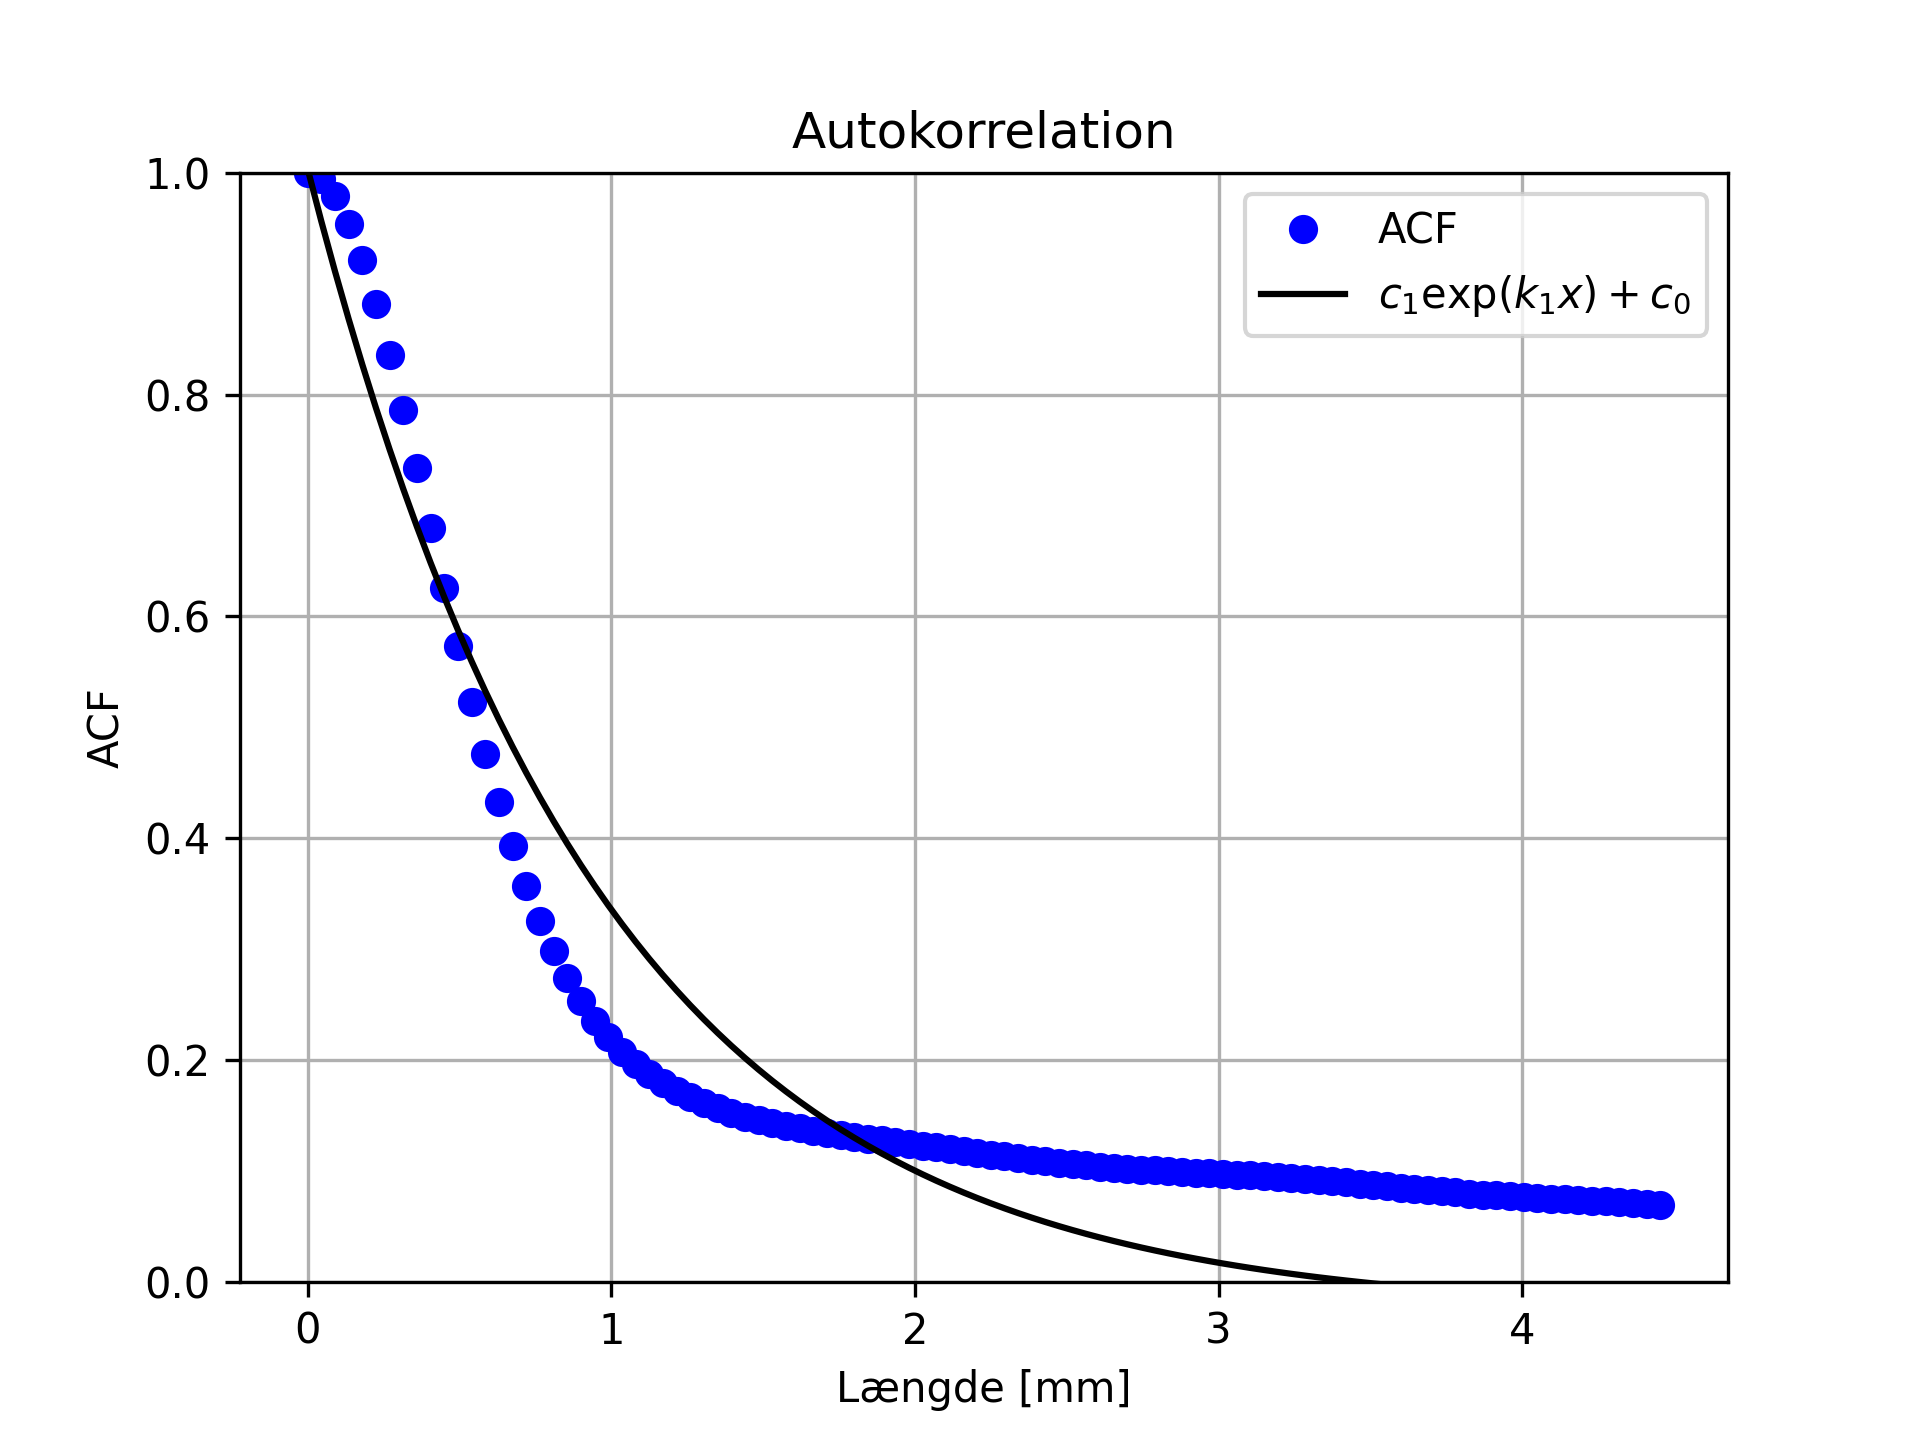
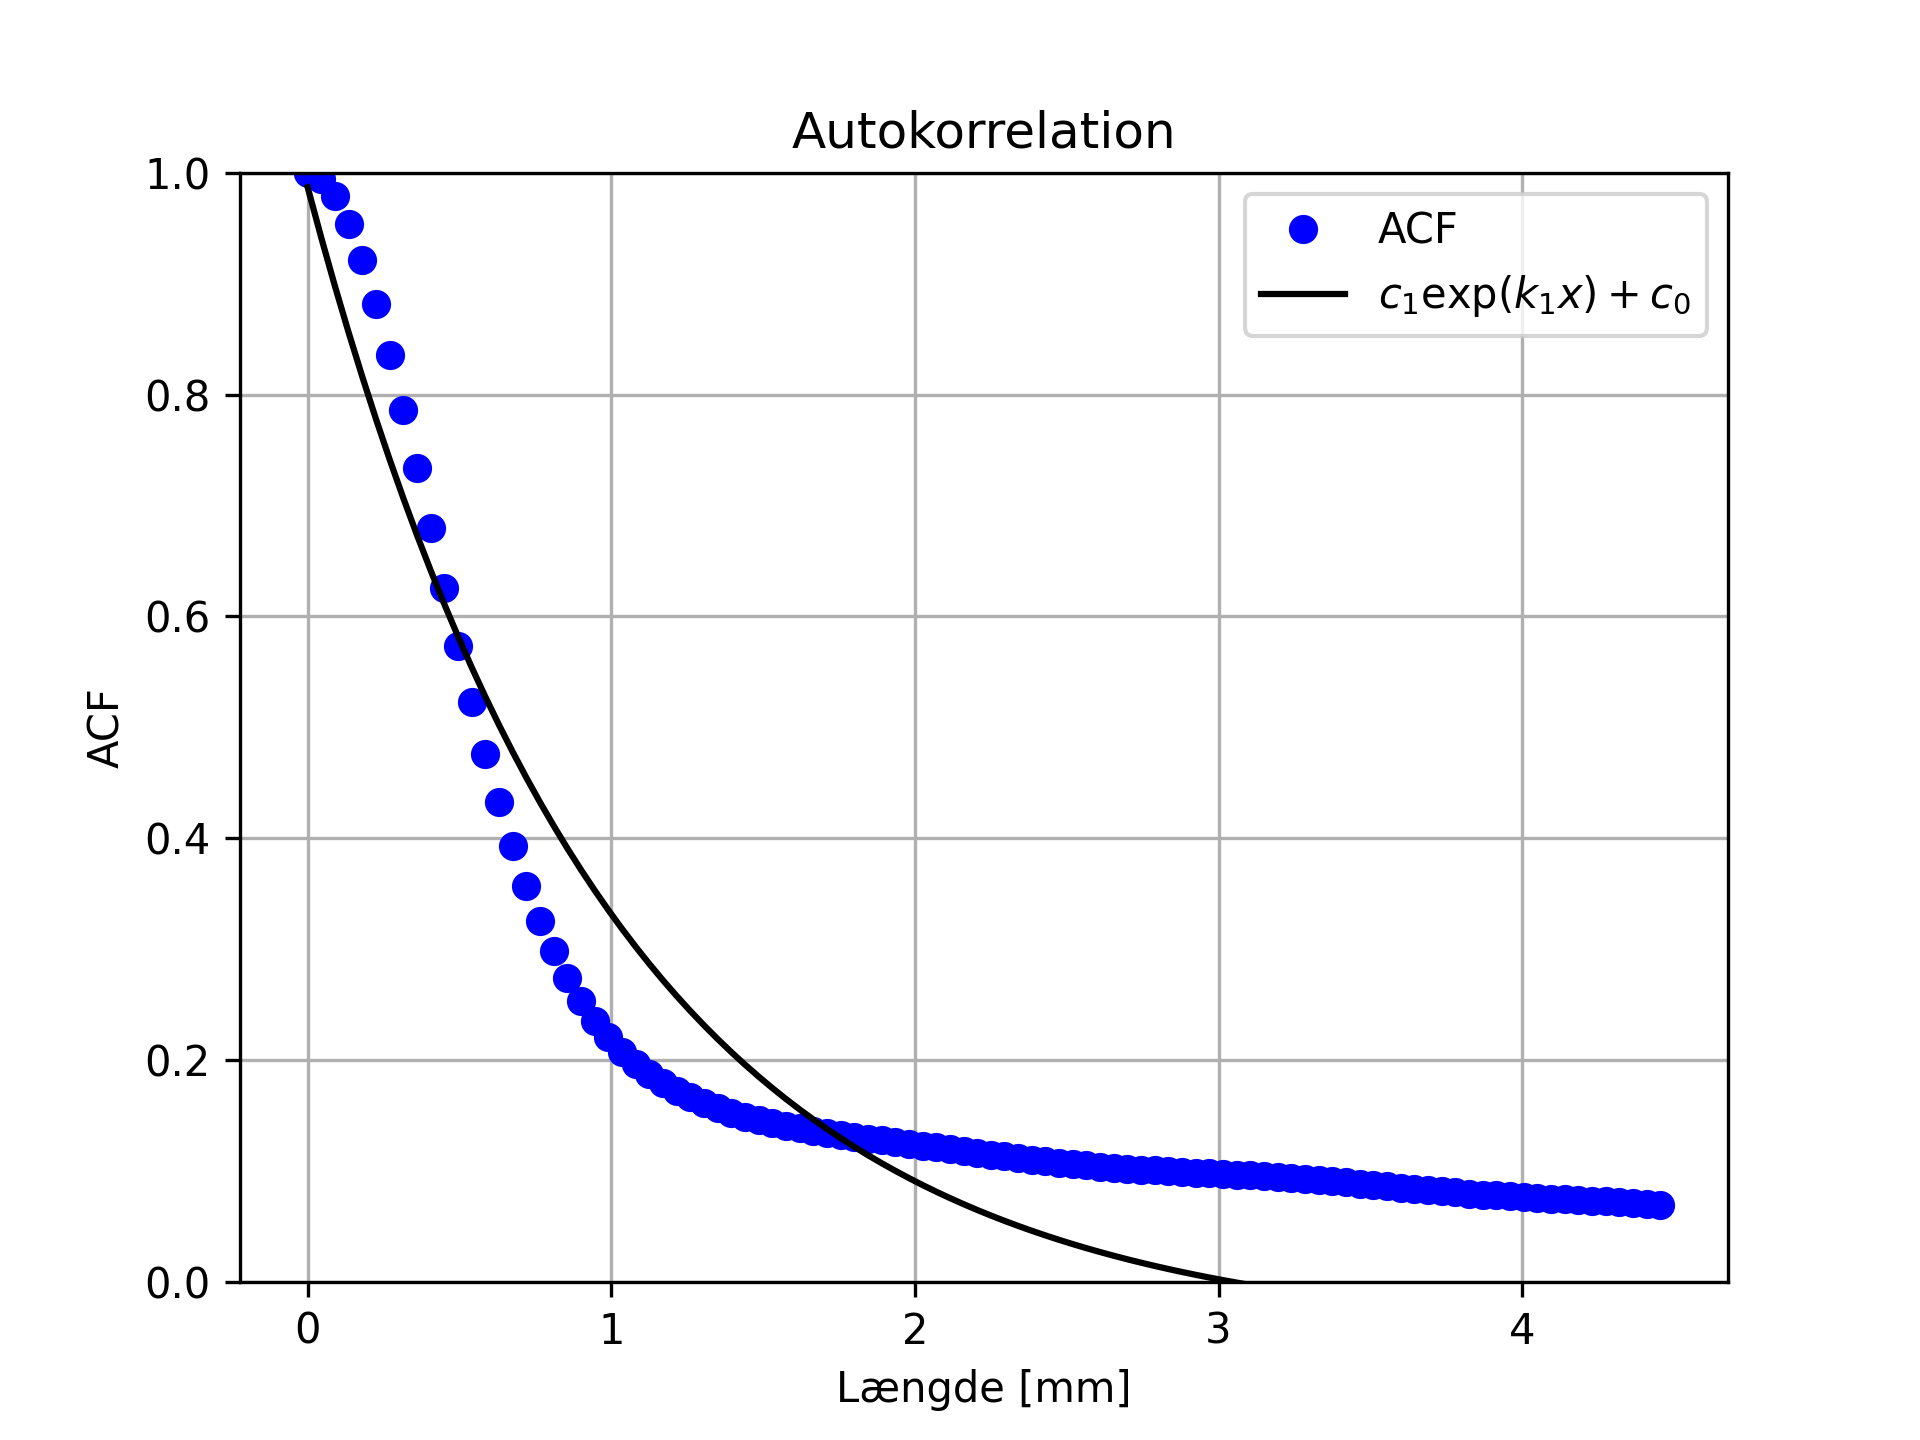
Faulty plot

diff --git a/plot_acf.py b/plot_acf.py
@@ -19,9 +19,6 @@ def plot_acf(acf, lags, n=1, conversion=90/2000, niter=20, func=1, saveas = None
     elif func == 2:
         fy = func2(m,x)
         plotlabel = r'$c_2 \exp(k_2 x^2) + c_1 \exp(k_1 x) + c_0$'
-    elif func == 3:
-        fy = func3(m,x)
-        plotlabel = r'$c_1 \exp(k_1 x^2)  + c_0$'
     
     #print(m)
     plt.figure()
@@ -37,8 +34,7 @@ def plot_acf(acf, lags, n=1, conversion=90/2000, niter=20, func=1, saveas = None
         fname = str("plotimg/" + saveas)
         #print(fname)
         plt.savefig(fname,dpi=300,format="png")
-    else:
-        plt.show()
+        plt.show(block=False)
     plt.close()
 
     rvs = np.cumsum(y)
@@ -53,44 +49,34 @@ def plot_acf(acf, lags, n=1, conversion=90/2000, niter=20, func=1, saveas = None
     print(f"Statistic is {stat:.04f} compared to {test:.04f}")
     print(f"p-value is {pval:.04f}")
 
-def lsm(x,y, m=[0.1, 1, -1, 1, -1], niter=50, func=1):
+def lsm(x,y, m=[0.1, 1, -1], niter=50, func=1):
     """
     Least square method
     """
     y = y[:, np.newaxis]
-    if func in [1,3]: m = m[0:3]
 
     for i in range(niter):
 
-        if func == 2:
-            #dobbelt eksponentiel funktion exp(x^2) + exp(x) + a0
+        if func == 1:
+            # eksponentiel funktion m1*exp(m2*x) + m0
             d0 = dfd0(m,x)
-            d1 = dfd1(m,x)
-            d2 = dfd2(m,x)
-            d3 = dfd3(m,x)
-            d4 = dfd4(m,x)
-            G = np.transpose(np.vstack((d0,d1,d2,d3,d4)))
-            yz = y - func2(m,x)[:,np.newaxis]
-        elif func == 1:
-            # eksponentiel funktion exp(x) + a0
-            d0 = dfd0(m,x)
-            d1 = dfd1(m,x)
-            d2 = dfd2(m,x)
+            d1 = df1d1(m,x)
+            d2 = df1d2(m,x)
             G = np.transpose(np.vstack((d0,d1,d2)))
             yz = y - func1(m,x)[:,np.newaxis]
-        elif func == 3:
-            #eksponentiel funktion exp(x^2) + a0
+        elif func == 2:
+            #Gaussisk funktion exp(x^2) + a0
             d0 = dfd0(m,x)
-            d1 = dfd3(np.array([m[0],0,0,m[1],m[2]]),x)
-            d2 = dfd4(np.array([m[0],0,0,m[1],m[2]]),x)
+            d1 = df2d1(m,x)
+            d2 = df2d2(m,x)
             G = np.transpose(np.vstack((d0,d1,d2)))
-            yz = y - func3(m,x)[:,np.newaxis]
+            yz = y - func2(m,x)[:,np.newaxis]
         
         delta = np.linalg.lstsq(G,yz,rcond=None)[0]
         #print(np.shape(delta))
         m = m + np.transpose(delta)[0]
         res = np.transpose(delta).dot(delta)
-        #print(f"Residuals for {i}: {res}")
+        print(f"Residuals for {i}: {res}")
         if res < 1e-8:
             break
         
@@ -101,27 +87,24 @@ def func1(m,x):
     return m[0] + m[1]*np.exp(m[2]*x)
 
 def func2(m,x):
-    return m[0] + m[1]*np.exp(m[2]*x) + m[3]*np.exp(m[4]*x**2)
+    return m[0] + 1/(m[1]*np.sqrt(2*np.pi)) * np.exp(-1/2 * ((x-m[2])/m[1])**2)
 
-def func3(m,x):
-    return m[0] + m[1]*np.exp(m[2]*x**2)
 
 
 def dfd0(m,x):
     return np.ones(np.size(x))
 
-def dfd1(m,x):
+def df1d1(m,x):
     return np.exp(m[1]*x)
 
-def dfd2(m,x):
-    return m[1]*m[2]*np.exp(m[2]*x)
+def df1d2(m,x):
+    return m[0]*m[1]*np.exp(m[1]*x)
 
-def dfd3(m,x):
-    return np.exp(m[4]*x**2)
+def df2d1(m,x):
+    return (x + m[1] -m[2])*(x - m[1] -m[2])/(m[1]**3) * func2([0,m[1],m[2]],x)
 
-def dfd4(m,x):
-    return m[3]*m[4]*np.exp(m[4]*x**2)
-
+def df2d2(m,x):
+    return (x-m[2])/(m[1]**2) * func2([0,m[1],m[2]],x)
 
 
 
